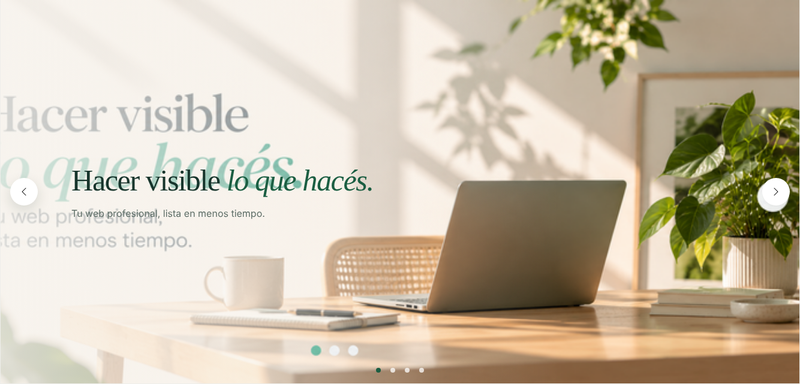
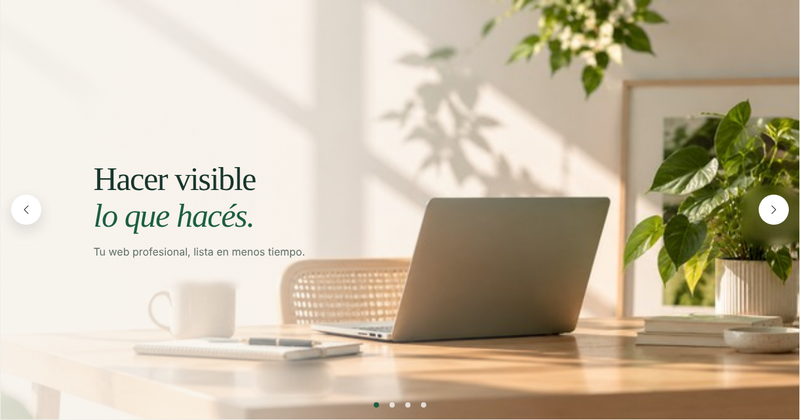
Carrusel: fotos reales en lugar de capturas de otros módulos
Claude-Session: https://claude.ai/code/session_01NoA9QHygjZfjdubp3F111y

diff --git a/maquetas/index.html b/maquetas/index.html
@@ -1351,10 +1351,10 @@
           <button type="button" data-bs-target="#carSimple" data-bs-slide-to="3" aria-label="4"></button>
         </div>
         <div class="carousel-inner">
-          <div class="carousel-item active"><div class="nx-hero-slide" style="background-image:url('../assets/modulos/hero-full-imagen/simple.png')"><div class="container"><div class="col-lg-6"><h2 class="nx-display">Hacer visible <span class="em">lo que hacés.</span></h2><p class="nx-lead">Tu web profesional, lista en menos tiempo.</p></div></div></div></div>
-          <div class="carousel-item"><div class="nx-hero-slide" style="background-image:url('../assets/modulos/hero-full-imagen/media.png')"><div class="container"><div class="col-lg-6"><h2 class="nx-display">Mostrá lo que hacés <span class="em">con claridad.</span></h2><p class="nx-lead">Una presencia que se entiende en el primer vistazo.</p></div></div></div></div>
-          <div class="carousel-item"><div class="nx-hero-slide" style="background-image:url('../assets/modulos/hero-full-imagen/compleja.png')"><div class="container"><div class="col-lg-6"><h2 class="nx-display">De la idea <span class="em">a una web lista.</span></h2><p class="nx-lead">Diseño, contenido y publicación en un mismo recorrido.</p></div></div></div></div>
-          <div class="carousel-item"><div class="nx-hero-slide" style="background-image:url('../assets/modulos/galeria-imagenes/media.png')"><div class="container"><div class="col-lg-6"><h2 class="nx-display">Espacios que <span class="em">cuentan algo.</span></h2><p class="nx-lead">Cada detalle trabaja para tu marca.</p></div></div></div></div>
+          <div class="carousel-item active"><div class="nx-hero-slide" style="background-image:url('img/hero-simple-full.jpg')"><div class="container"><div class="col-lg-6"><h2 class="nx-display">Hacer visible <span class="em">lo que hacés.</span></h2><p class="nx-lead">Tu web profesional, lista en menos tiempo.</p></div></div></div></div>
+          <div class="carousel-item"><div class="nx-hero-slide" style="background-image:url('img/hero-media-full.jpg')"><div class="container"><div class="col-lg-6"><h2 class="nx-display">Mostrá lo que hacés <span class="em">con claridad.</span></h2><p class="nx-lead">Una presencia que se entiende en el primer vistazo.</p></div></div></div></div>
+          <div class="carousel-item"><div class="nx-hero-slide" style="background-image:url('img/hero-compleja-full.jpg')"><div class="container"><div class="col-lg-6"><h2 class="nx-display">De la idea <span class="em">a una web lista.</span></h2><p class="nx-lead">Diseño, contenido y publicación en un mismo recorrido.</p></div></div></div></div>
+          <div class="carousel-item"><div class="nx-hero-slide" style="background-image:url('img/gal-main.jpg')"><div class="container"><div class="col-lg-6"><h2 class="nx-display">Espacios que <span class="em">cuentan algo.</span></h2><p class="nx-lead">Cada detalle trabaja para tu marca.</p></div></div></div></div>
         </div>
         <button class="carousel-control-prev" type="button" data-bs-target="#carSimple" data-bs-slide="prev"><span class="carousel-control-prev-icon"></span><span class="visually-hidden">Anterior</span></button>
         <button class="carousel-control-next" type="button" data-bs-target="#carSimple" data-bs-slide="next"><span class="carousel-control-next-icon"></span><span class="visually-hidden">Siguiente</span></button>
@@ -1372,9 +1372,9 @@
           <button type="button" data-bs-target="#carMedia" data-bs-slide-to="2" aria-label="3"></button>
         </div>
         <div class="carousel-inner">
-          <div class="carousel-item active"><div class="nx-hero-slide" style="background-image:url('../assets/modulos/hero-full-imagen/media.png')"><div class="container"><div class="col-lg-7"><h2 class="nx-display">Hacer visible <span class="em">lo que hacés.</span></h2><p class="nx-lead">Tu web profesional, lista en menos tiempo.</p><div class="nx-pills"><span class="nx-pill"><i class="bi bi-lightning-charge"></i> Implementación ágil</span><span class="nx-pill"><i class="bi bi-display"></i> Diseño profesional</span><span class="nx-pill"><i class="bi bi-headset"></i> Acompañamiento continuo</span></div><a class="btn-nx mt-4" href="mailto:hola@example.com">Hablemos ahora <i class="bi bi-arrow-right"></i></a></div></div></div></div>
-          <div class="carousel-item"><div class="nx-hero-slide" style="background-image:url('../assets/modulos/hero-full-imagen/simple.png')"><div class="container"><div class="col-lg-7"><h2 class="nx-display">Una web que <span class="em">se siente tuya.</span></h2><p class="nx-lead">Claridad para quien llega y calma para quien la administra.</p><a class="btn-nx mt-4" href="mailto:hola@example.com">Hablemos ahora <i class="bi bi-arrow-right"></i></a></div></div></div></div>
-          <div class="carousel-item"><div class="nx-hero-slide" style="background-image:url('../assets/modulos/hero-full-imagen/compleja.png')"><div class="container"><div class="col-lg-7"><h2 class="nx-display">Seguimos cerca <span class="em">después de publicar.</span></h2><p class="nx-lead">Ajustes, contenido y una persona del otro lado.</p><a class="btn-nx mt-4" href="mailto:hola@example.com">Hablemos ahora <i class="bi bi-arrow-right"></i></a></div></div></div></div>
+          <div class="carousel-item active"><div class="nx-hero-slide" style="background-image:url('img/hero-media-full.jpg')"><div class="container"><div class="col-lg-7"><h2 class="nx-display">Hacer visible <span class="em">lo que hacés.</span></h2><p class="nx-lead">Tu web profesional, lista en menos tiempo.</p><div class="nx-pills"><span class="nx-pill"><i class="bi bi-lightning-charge"></i> Implementación ágil</span><span class="nx-pill"><i class="bi bi-display"></i> Diseño profesional</span><span class="nx-pill"><i class="bi bi-headset"></i> Acompañamiento continuo</span></div><a class="btn-nx mt-4" href="mailto:hola@example.com">Hablemos ahora <i class="bi bi-arrow-right"></i></a></div></div></div></div>
+          <div class="carousel-item"><div class="nx-hero-slide" style="background-image:url('img/hero-simple-full.jpg')"><div class="container"><div class="col-lg-7"><h2 class="nx-display">Una web que <span class="em">se siente tuya.</span></h2><p class="nx-lead">Claridad para quien llega y calma para quien la administra.</p><a class="btn-nx mt-4" href="mailto:hola@example.com">Hablemos ahora <i class="bi bi-arrow-right"></i></a></div></div></div></div>
+          <div class="carousel-item"><div class="nx-hero-slide" style="background-image:url('img/hero-compleja-full.jpg')"><div class="container"><div class="col-lg-7"><h2 class="nx-display">Seguimos cerca <span class="em">después de publicar.</span></h2><p class="nx-lead">Ajustes, contenido y una persona del otro lado.</p><a class="btn-nx mt-4" href="mailto:hola@example.com">Hablemos ahora <i class="bi bi-arrow-right"></i></a></div></div></div></div>
         </div>
         <button class="carousel-control-prev" type="button" data-bs-target="#carMedia" data-bs-slide="prev"><span class="carousel-control-prev-icon"></span><span class="visually-hidden">Anterior</span></button>
         <button class="carousel-control-next" type="button" data-bs-target="#carMedia" data-bs-slide="next"><span class="carousel-control-next-icon"></span><span class="visually-hidden">Siguiente</span></button>
@@ -1386,7 +1386,7 @@
     <div class="mq-caption"><span>Compleja</span></div>
     <div class="mq-frame">
       <div class="nx nx-hero hero-with-cards">
-        <div class="nx-hero-slide" style="background-image:url('../assets/modulos/hero-full-imagen/compleja.png')">
+        <div class="nx-hero-slide" style="background-image:url('img/hero-compleja-full.jpg')">
           <div class="container position-relative">
             <div class="col-lg-6 py-5">
               <h2 class="nx-display">Hacer visible <span class="em">lo que hacés.</span></h2>

diff --git a/maquetas/constructor.html b/maquetas/constructor.html
@@ -10,7 +10,7 @@
   <link href="https://fonts.googleapis.com/css2?family=Bricolage+Grotesque:opsz,wght@12..96,700;12..96,800&family=Fraunces:ital,opsz,wght@0,9..144,500;0,9..144,620;1,9..144,520&family=Inter:wght@300;400;500;600;700&family=Manrope:wght@400;500;600;700&display=swap" rel="stylesheet">
   <link href="https://cdn.jsdelivr.net/npm/bootstrap@5.3.3/dist/css/bootstrap.min.css" rel="stylesheet" integrity="sha384-QWTKZyjpPEjISv5WaRU9OFeRpok6YctnYmDr5pNlyT2bRjXh0JMhjY6hW+ALEwIH" crossorigin="anonymous">
   <link href="https://cdn.jsdelivr.net/npm/bootstrap-icons@1.11.3/font/bootstrap-icons.min.css" rel="stylesheet" integrity="sha384-XGjxtQfXaH2tnPFa9x+ruJTuLE3Aa6LhHSWRr1XeTyhezb4abCG4ccI5AkVDxqC+" crossorigin="anonymous">
-  <link href="css/lanzate.css?v=ritmo-2" rel="stylesheet">
+  <link href="css/lanzate.css?v=ritmo-3" rel="stylesheet">
   <script>if (/[?&]desde=sitio(?:&|$)/.test(location.search)) document.documentElement.classList.add("is-client");</script>
 </head>
 <body class="lib-page builder-page">
@@ -429,6 +429,6 @@
   <script src="js/plataforma.js"></script>
   <script src="js/reglas.js"></script>
   <script src="js/plantillas.js"></script>
-  <script src="js/constructor.js?v=ritmo-2"></script>
+  <script src="js/constructor.js?v=ritmo-3"></script>
 </body>
 </html>

diff --git a/maquetas/clientes.html b/maquetas/clientes.html
@@ -10,7 +10,7 @@
   <link href="https://fonts.googleapis.com/css2?family=Bricolage+Grotesque:opsz,wght@12..96,700;12..96,800&family=Inter:wght@300;400;500;600;700&family=Manrope:wght@400;500;600;700&display=swap" rel="stylesheet">
   <link href="https://cdn.jsdelivr.net/npm/bootstrap@5.3.3/dist/css/bootstrap.min.css" rel="stylesheet" integrity="sha384-QWTKZyjpPEjISv5WaRU9OFeRpok6YctnYmDr5pNlyT2bRjXh0JMhjY6hW+ALEwIH" crossorigin="anonymous">
   <link href="https://cdn.jsdelivr.net/npm/bootstrap-icons@1.11.3/font/bootstrap-icons.min.css" rel="stylesheet" integrity="sha384-XGjxtQfXaH2tnPFa9x+ruJTuLE3Aa6LhHSWRr1XeTyhezb4abCG4ccI5AkVDxqC+" crossorigin="anonymous">
-  <link href="css/lanzate.css?v=ritmo-2" rel="stylesheet">
+  <link href="css/lanzate.css?v=ritmo-3" rel="stylesheet">
 </head>
 <body class="lib-page pf-page" data-page="clientes">
   <a class="lib-skip-link" href="#contenido-principal">Saltar al contenido</a>
@@ -58,6 +58,6 @@
     <p class="pf-empty" data-pf-empty hidden></p>
   </main>
 
-  <script src="js/plataforma.js?v=ritmo-2"></script>
+  <script src="js/plataforma.js?v=ritmo-3"></script>
 </body>
 </html>

diff --git a/maquetas/cliente.html b/maquetas/cliente.html
@@ -10,7 +10,7 @@
   <link href="https://fonts.googleapis.com/css2?family=Bricolage+Grotesque:opsz,wght@12..96,700;12..96,800&family=Inter:wght@300;400;500;600;700&family=Manrope:wght@400;500;600;700&display=swap" rel="stylesheet">
   <link href="https://cdn.jsdelivr.net/npm/bootstrap@5.3.3/dist/css/bootstrap.min.css" rel="stylesheet" integrity="sha384-QWTKZyjpPEjISv5WaRU9OFeRpok6YctnYmDr5pNlyT2bRjXh0JMhjY6hW+ALEwIH" crossorigin="anonymous">
   <link href="https://cdn.jsdelivr.net/npm/bootstrap-icons@1.11.3/font/bootstrap-icons.min.css" rel="stylesheet" integrity="sha384-XGjxtQfXaH2tnPFa9x+ruJTuLE3Aa6LhHSWRr1XeTyhezb4abCG4ccI5AkVDxqC+" crossorigin="anonymous">
-  <link href="css/lanzate.css?v=ritmo-2" rel="stylesheet">
+  <link href="css/lanzate.css?v=ritmo-3" rel="stylesheet">
 </head>
 <body class="lib-page pf-page" data-page="cliente">
   <a class="lib-skip-link" href="#contenido-principal">Saltar al contenido</a>
@@ -44,6 +44,6 @@
     </section>
   </main>
 
-  <script src="js/plataforma.js?v=ritmo-2"></script>
+  <script src="js/plataforma.js?v=ritmo-3"></script>
 </body>
 </html>

diff --git a/data/modules.js b/data/modules.js
@@ -262,19 +262,19 @@ window.LANZATE_MODULES = [
         "nombre": "Simple",
         "imagen": "assets/modulos/carrusel-imagenes/simple.png",
         "ancho": 800,
-        "alto": 384
+        "alto": 420
       },
       {
         "nombre": "Media",
         "imagen": "assets/modulos/carrusel-imagenes/media.png",
         "ancho": 800,
-        "alto": 332
+        "alto": 420
       },
       {
         "nombre": "Compleja",
         "imagen": "assets/modulos/carrusel-imagenes/compleja.png",
         "ancho": 800,
-        "alto": 333
+        "alto": 420
       }
     ]
   },
